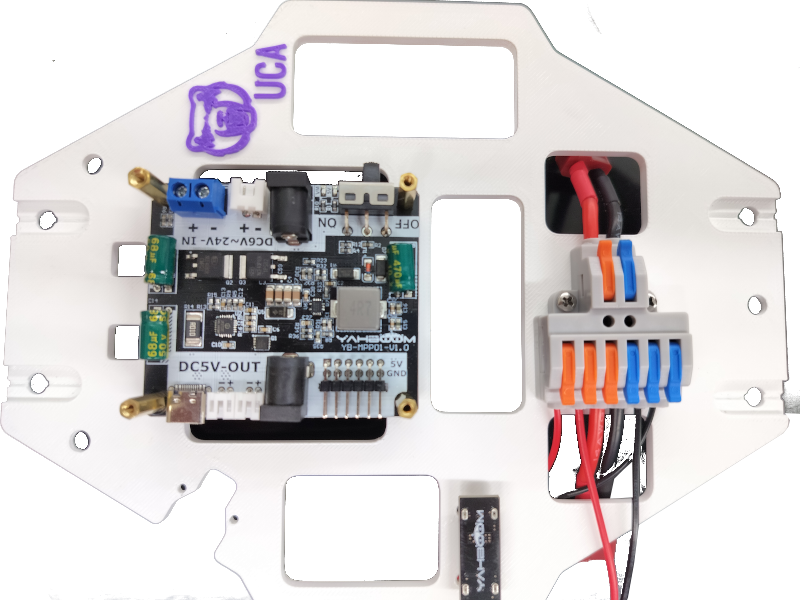
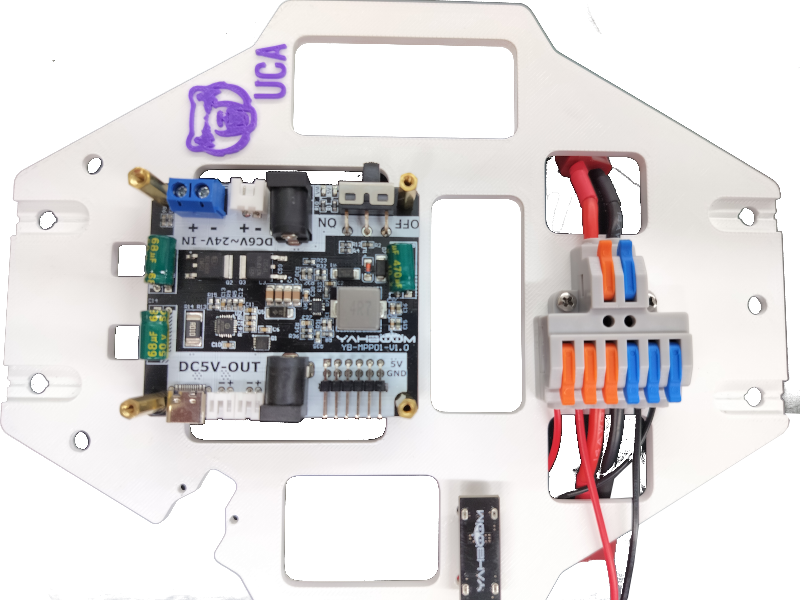
update assemble figures

Changed region(s): [[0.6562, 0.24, 0.8125, 0.39], [0.2188, 0.69, 0.5, 0.75]]

diff --git a/docs/installation/assemble.md b/docs/installation/assemble.md
@@ -74,10 +74,14 @@ The wires in the same color are connected together (orange to orange, blue to bl
 
 ### 3.1 Prepare
 
+#### 3.1.1 Fasteners
 - 4x M2.5 nuts
 - 4x M2.5x6mm screws
 - 4x M2.5x6mm+6mm standoffs
 - 8x M2.5x16mm+6mm standoffs
+
+![pre_control_tower_bolts](assets/images/assemble/pre_control_tower_bolts.png)
+#### 3.1.2 Electronics
 - 1x Yahboom power expansion board
 - 1x Raspberry Pi 5
 - 1x BearCar relay board
@@ -85,7 +89,6 @@ The wires in the same color are connected together (orange to orange, blue to bl
 - 1x Raspberry Pi Pico 2
 - 1x GY-521 MPU6050 IMU breakout board
 
-![pre_control_tower_bolts](assets/images/assemble/pre_control_tower_bolts.png)
 ![pre_control_tower_electronics](assets/images/assemble/pre_control_tower_electronics.png)
 
 ### 3.2 Set foundation
